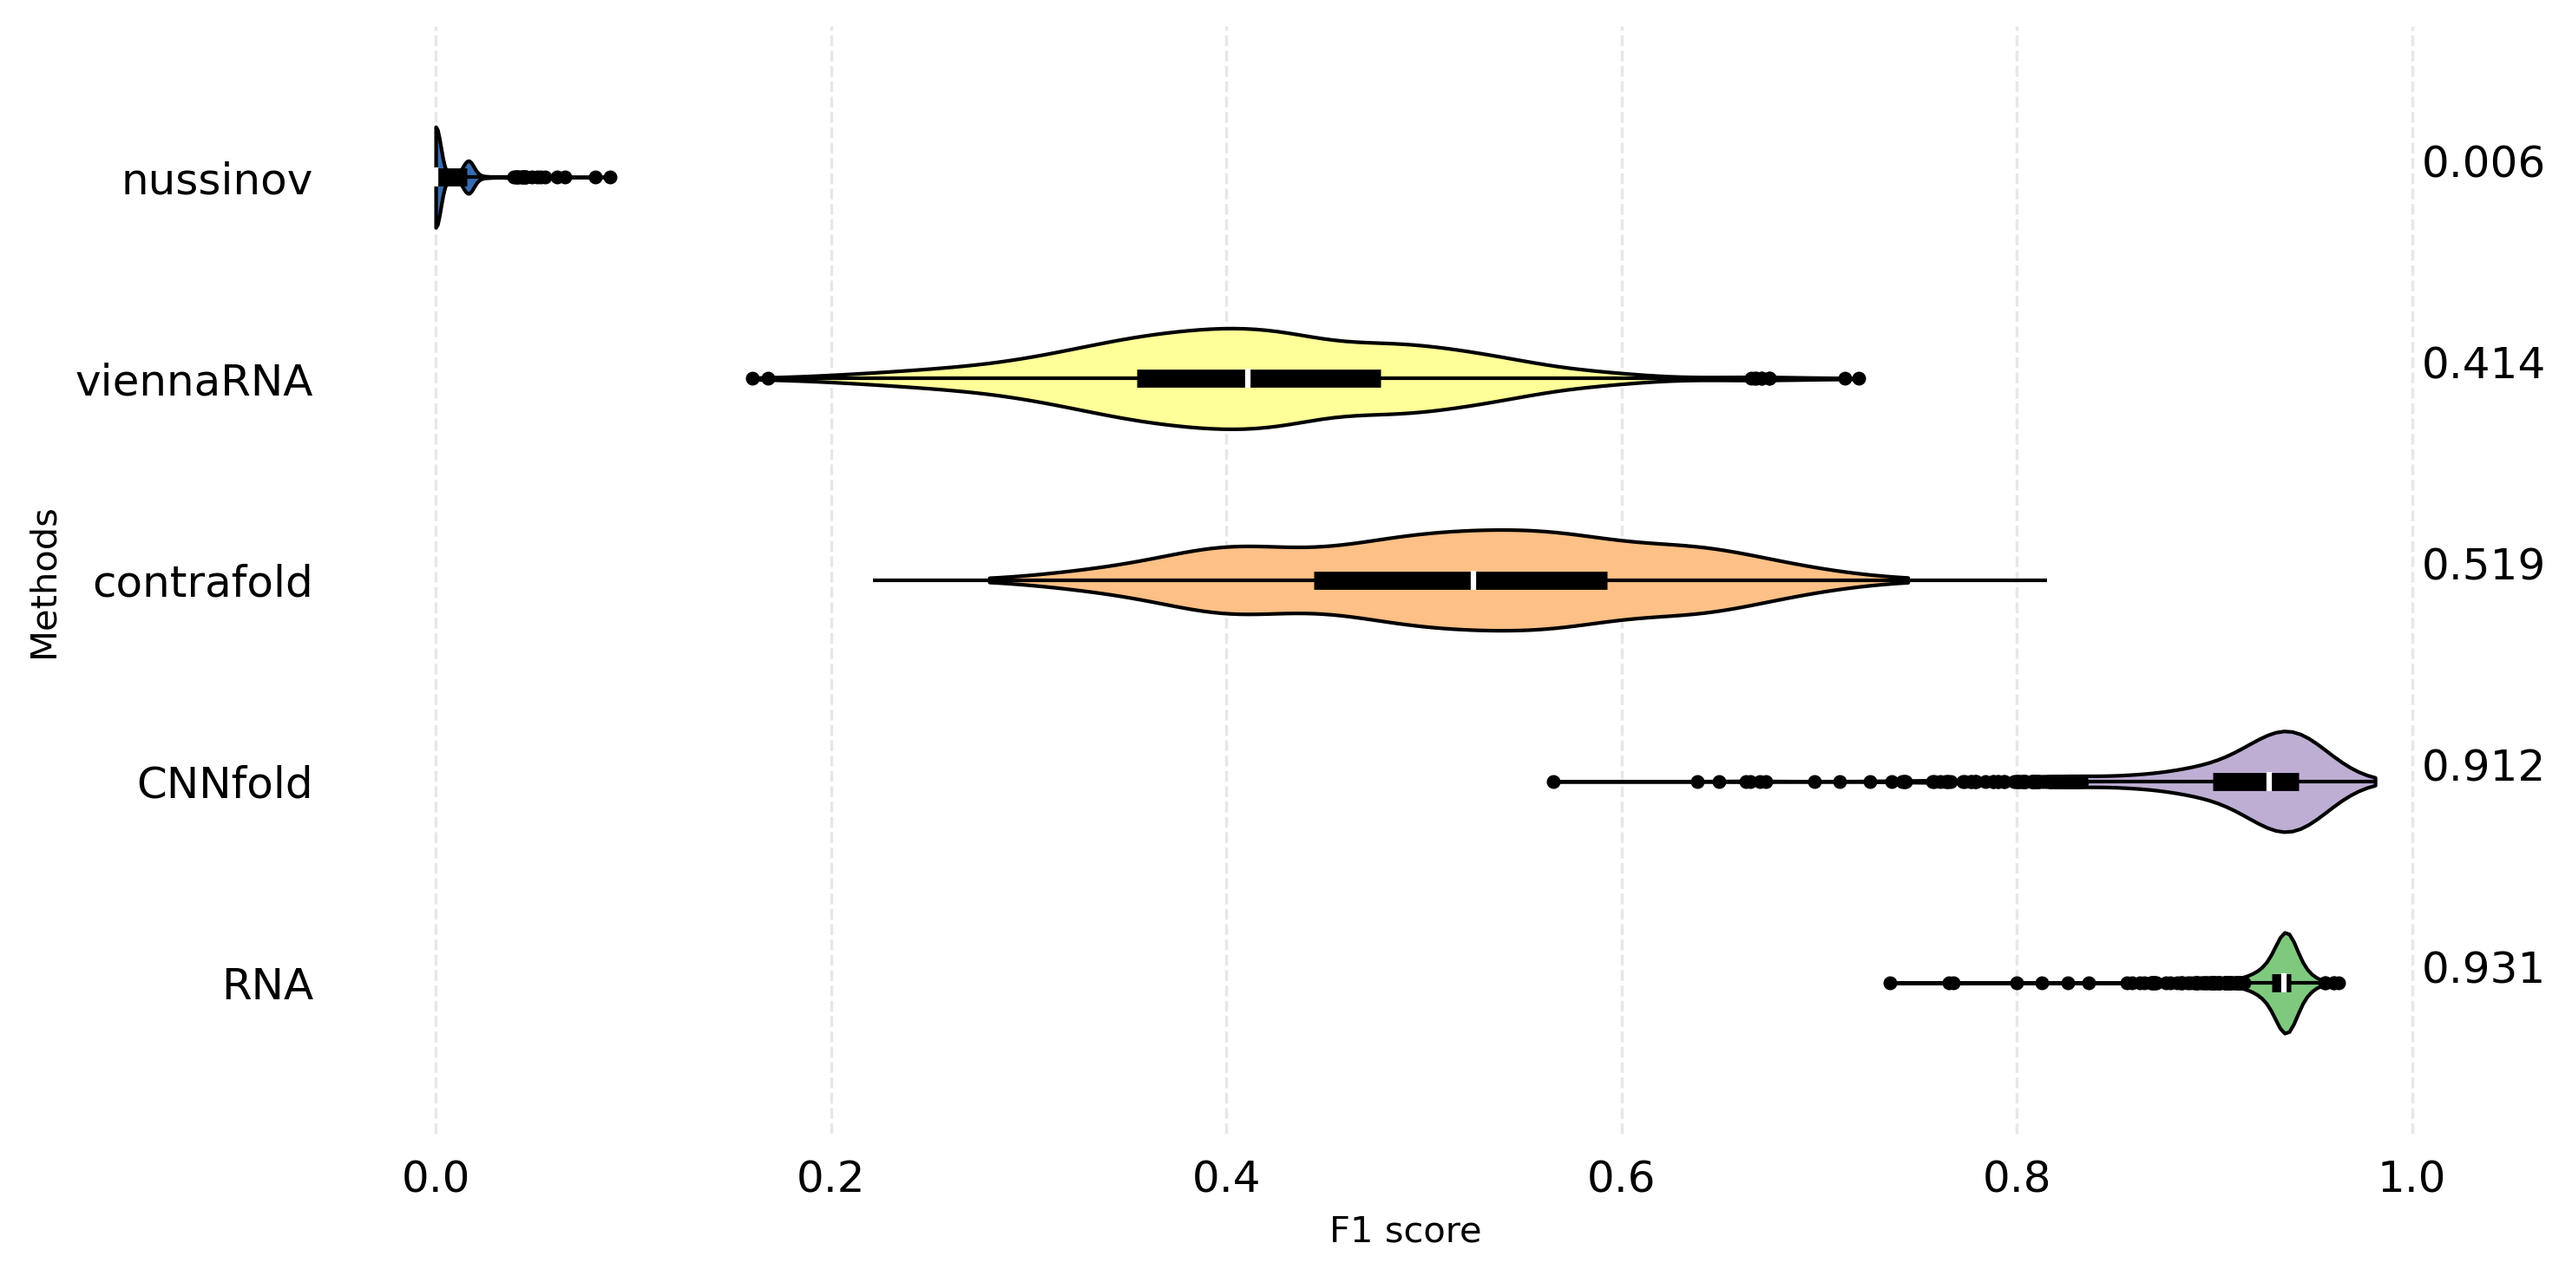
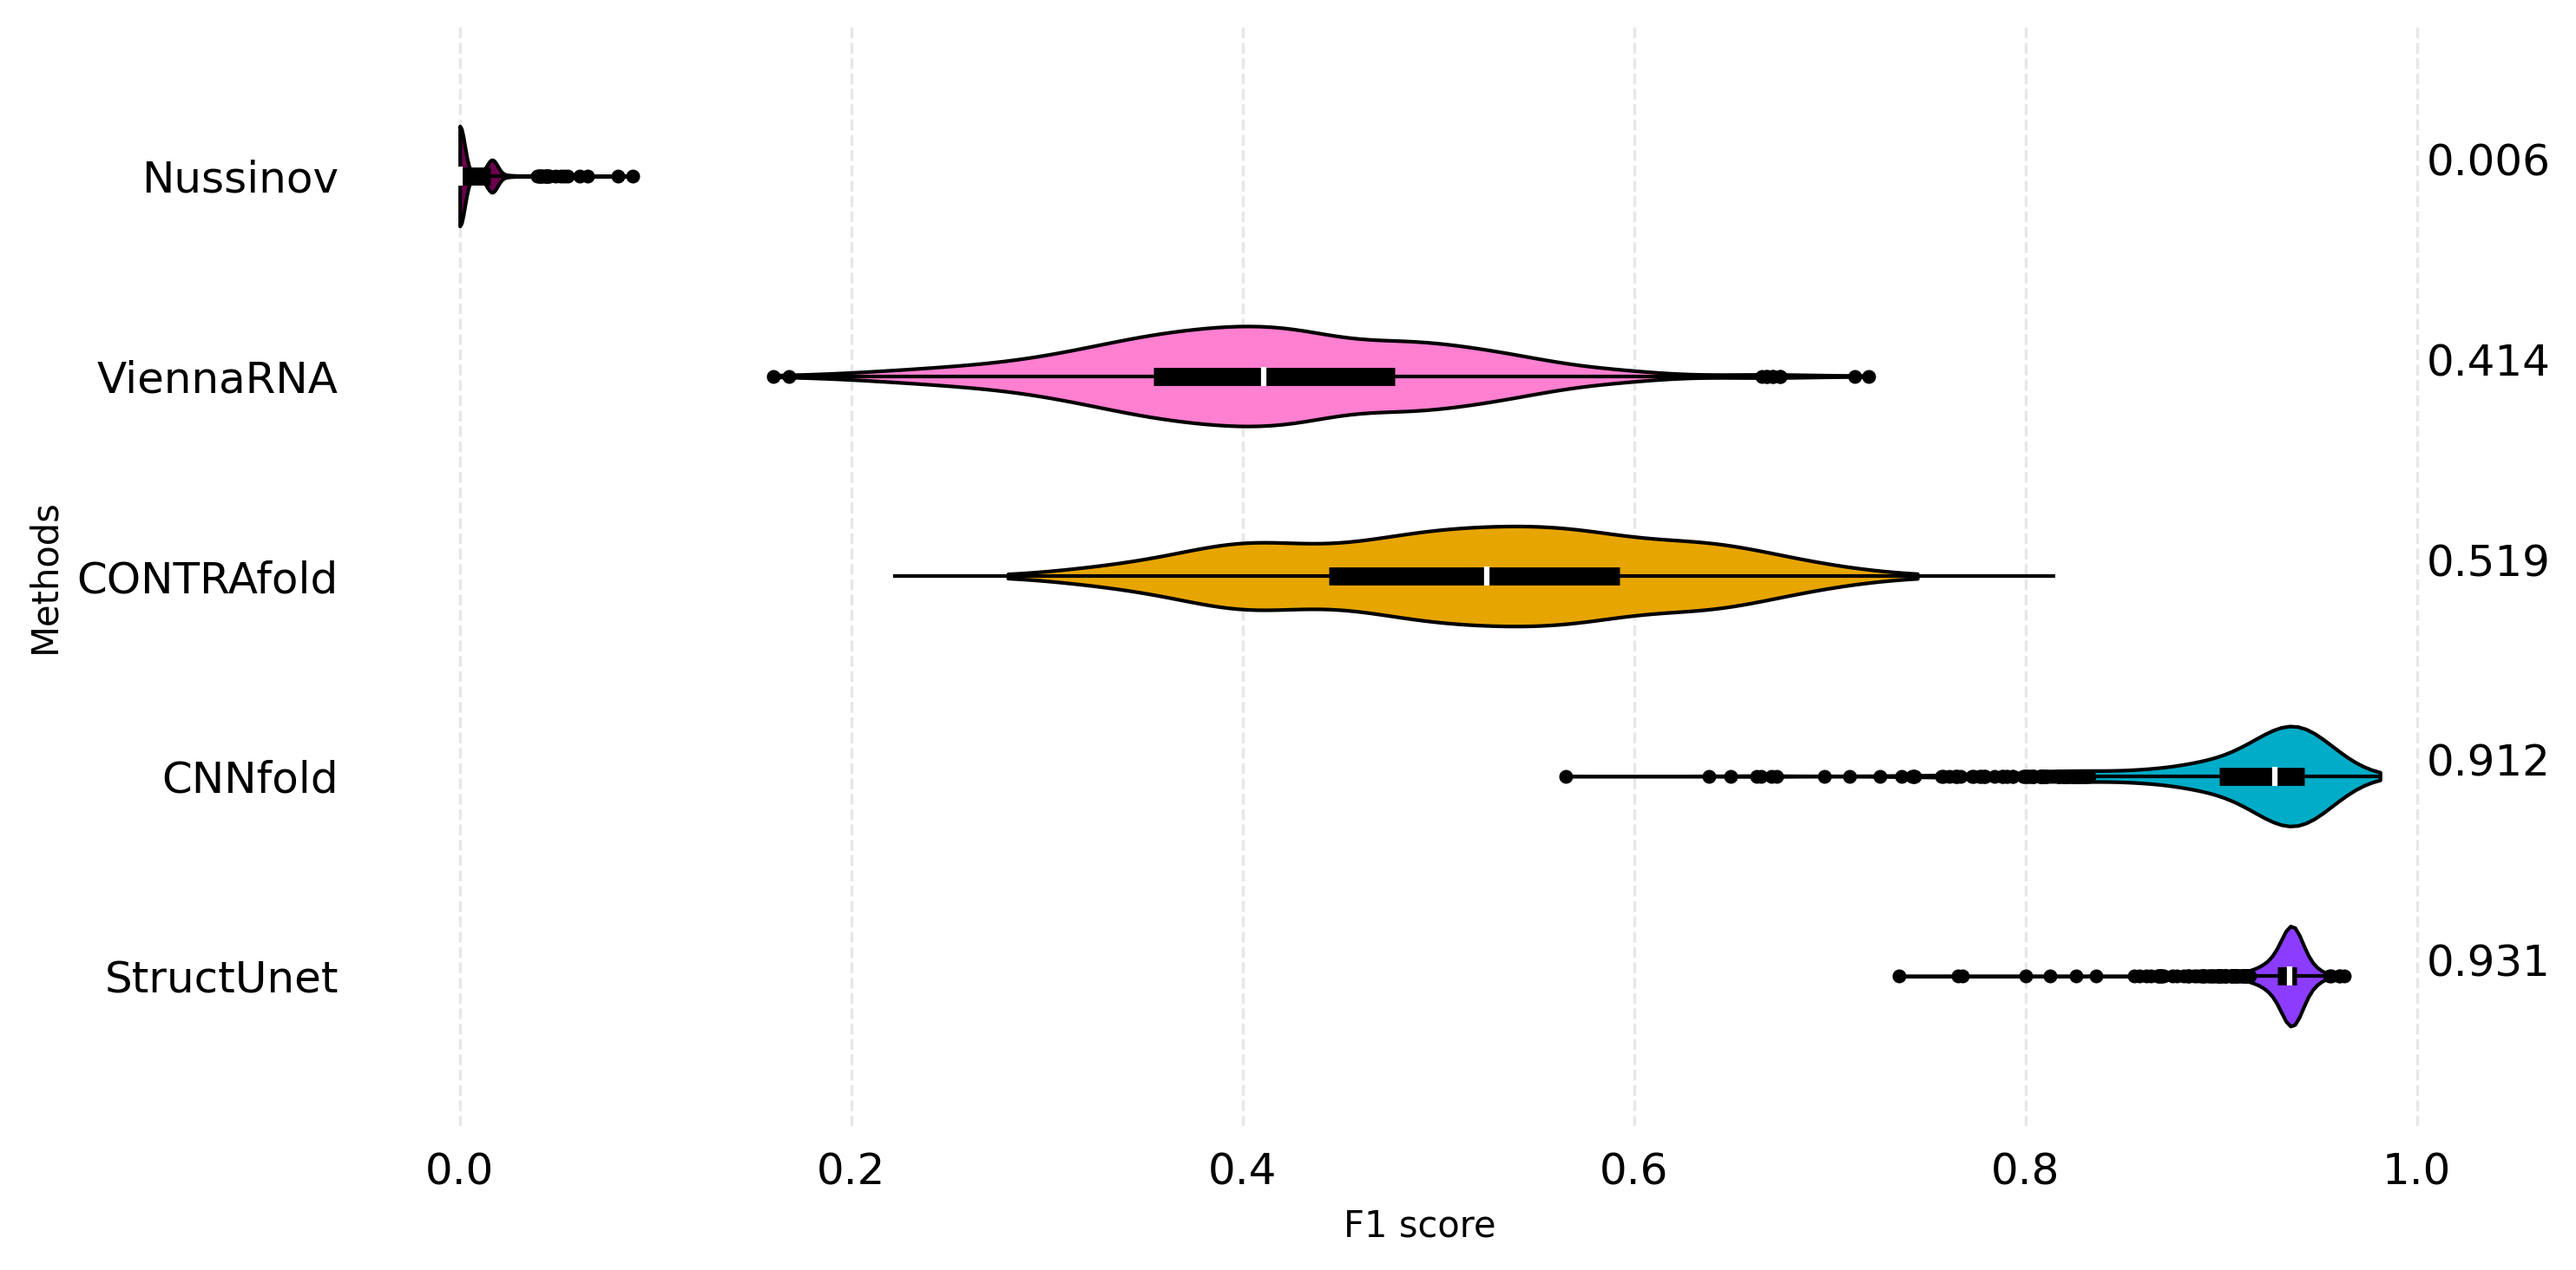
Updated plots

diff --git a/scripts/compare_predictions_archive.py b/scripts/compare_predictions_archive.py
@@ -3,6 +3,7 @@ import os, pickle, torch, multiprocessing
 import pandas as pd
 import numpy as np
 import matplotlib.pyplot as plt
+import matplotlib as mpl
 
 from collections import namedtuple
 from functools import partial
@@ -132,13 +133,15 @@ def evaluate_families(df: pd.DataFrame, method: str) -> pd.DataFrame:
     return family_df
 
 
-def plot_F1(df: pd.DataFrame, outputfile: str, method: str = 'RNAUnet'):
+def plot_F1(df: pd.DataFrame, outputfile: str, method: str = 'RNA_Unet'):
     """
     """
+    colors = mpl.colormaps['cet_glasbey_dark'].colors
+
     plt.figure(figsize=(12, 4))
     
-    for family, group in df.groupby('family'):
-        plt.scatter(group['length'], group[f'{method}_f1'], label=family, s=10)
+    for i, (family, group) in enumerate(df.groupby('family')):
+        plt.scatter(group['length'], group[f'{method}_f1'], label=family, s=10, color=colors[i], alpha=0.5)
     
     plt.xlabel('Length')
     plt.ylabel('F1 score')

diff --git a/scripts/compare_predictions_over600.py b/scripts/compare_predictions_over600.py
@@ -3,6 +3,7 @@ import os, pickle, torch, multiprocessing
 import pandas as pd
 import numpy as np
 import matplotlib.pyplot as plt
+import matplotlib as mpl
 
 from collections import namedtuple
 from functools import partial
@@ -135,10 +136,12 @@ def evaluate_families(df: pd.DataFrame, method: str) -> pd.DataFrame:
 def plot_F1(df: pd.DataFrame, outputfile: str, method: str = 'RNA_Unet'):
     """
     """
+    colors = mpl.colormaps['cet_glasbey_dark'].colors
+
     plt.figure(figsize=(12, 4))
     
-    for family, group in df.groupby('family'):
-        plt.scatter(group['length'], group[f'{method}_f1'], label=family, s=10)
+    for i, (family, group) in enumerate(df.groupby('family')):
+        plt.scatter(group['length'], group[f'{method}_f1'], label=family, s=10, color=colors[i], alpha=0.5)
     
     plt.xlabel('Length')
     plt.ylabel('F1 score')

diff --git a/scripts/utils/plots.py b/scripts/utils/plots.py
@@ -240,7 +240,7 @@ def set_axis_style(ax, labels: list, ylabel: str) -> None:
   ax.grid(axis = 'x', linestyle = '--', alpha = 0.3, zorder = 0)
   ax.set_axisbelow(True)
 
-def violin_plot(df: pd.DataFrame, ylabel: str, cmap='Accent', outputfile=None) -> None:
+def violin_plot(df: pd.DataFrame, ylabel: str, cmap='cet_glasbey_dark', outputfile=None) -> None:
   """
   Generate a violin plot for the given DataFrame.
 
